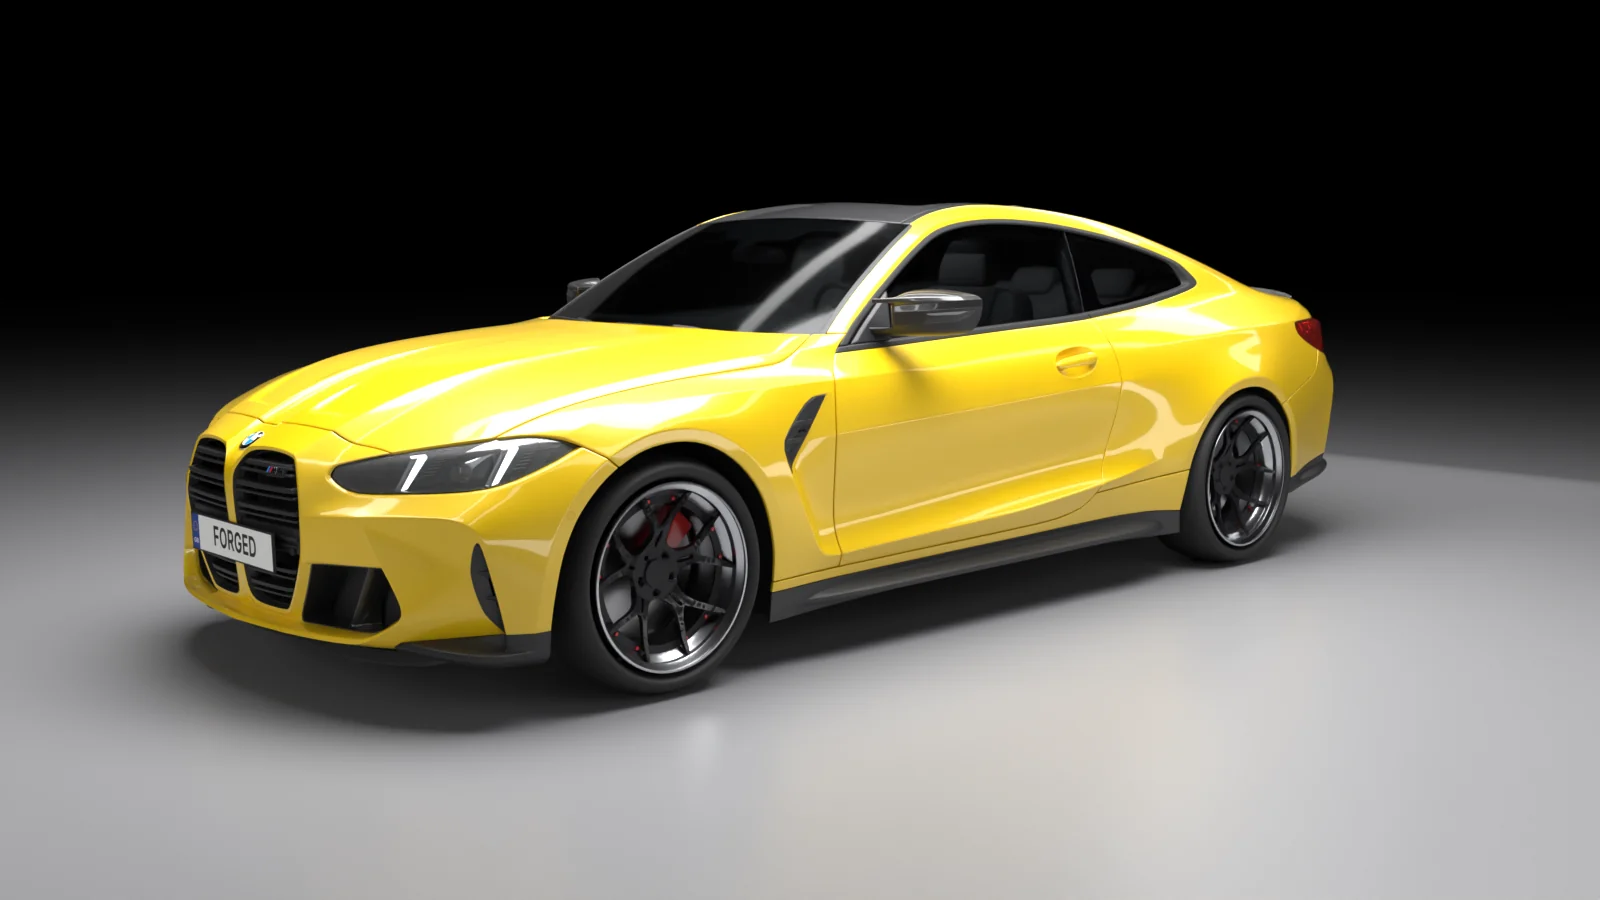
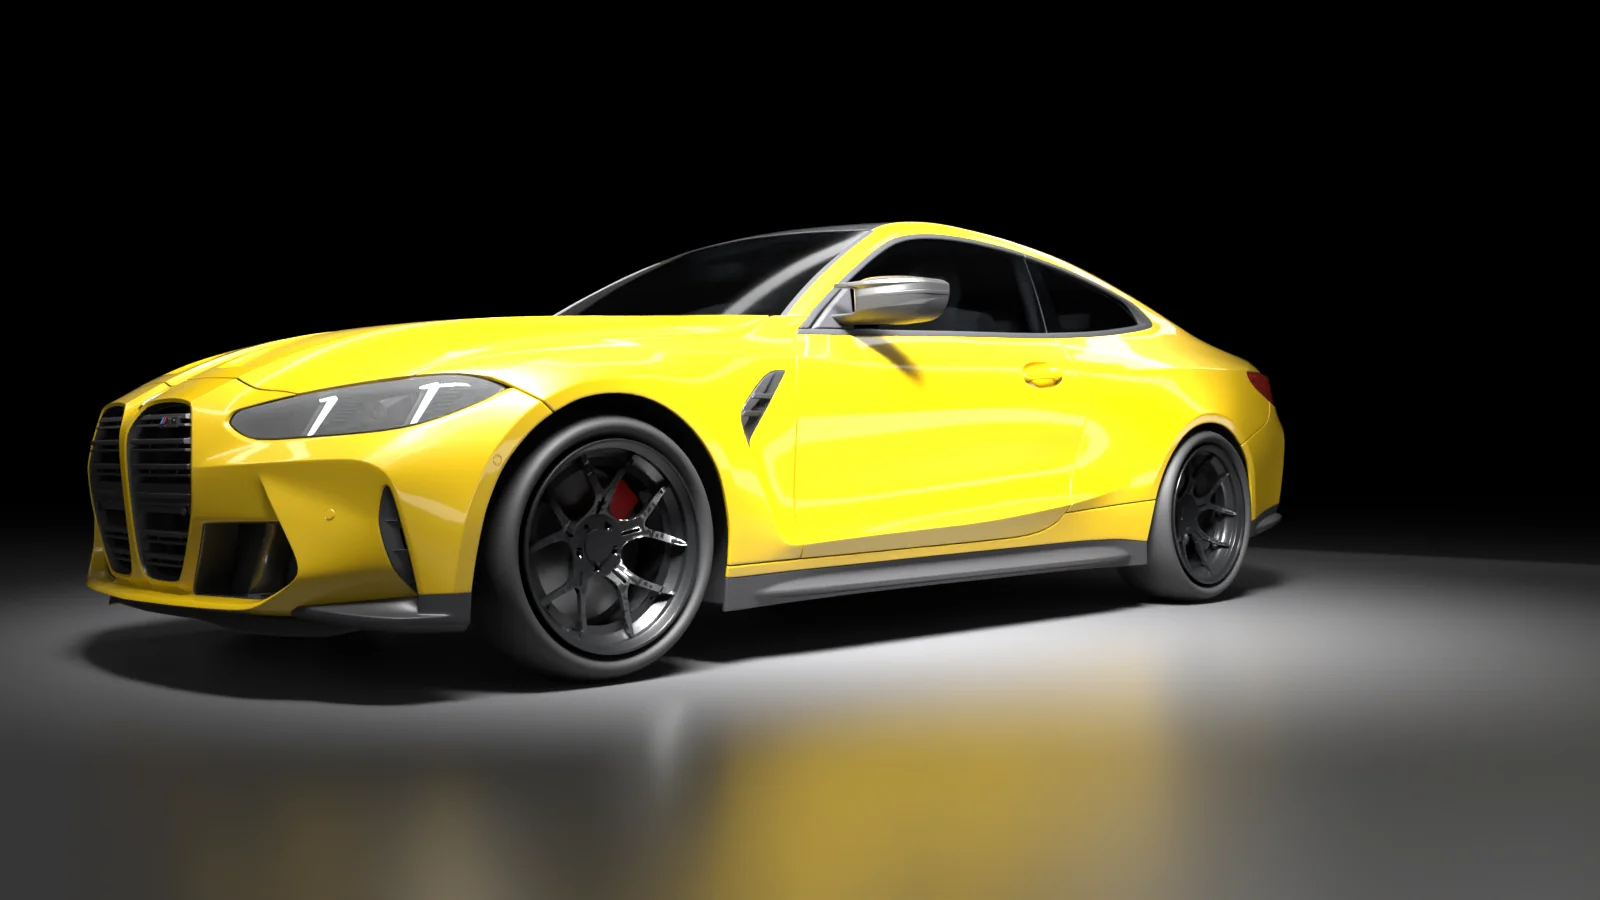
feat(hero): the welcome stills re-lit to the reference look for the other 15 cars
Why: the owner asked why every car cannot be as refined as the M5, M5
Touring and M2 CS. Those are the 11 Nov stills from the reference studio;
the other 15 were a flat, bright, far-camera first version of render_car.py
--hero. The reference studio scene is not in the repo, so --hero was tuned
against the 11 Nov M5 instead.

What:
- render_car.py --hero defaults: key 500 W, 0.55 x size, 55 degree spread,
  0.4 of the way to the camera, 1.8 m up; floor albedo 0.10; EV -0.5; a hero
  camera 1.1 car lengths out at 0.4 of the car's height, 32 mm; paint
  pigment x0.55; one deep satin black finish on the rims; the app's
  placeholder plates left out. Every value has a HERO_* override.
- pack-heroes.py packs the renders; HERO_VERSION bumped to 20261123c.
- 15 stills replaced (iX3, M3, M3 Touring, X1, X3, M3 CS, M3 CS Touring, M4,
  M4 CSL, M4 Convertible, X3 30e, X5, X5 M, M240i, M340i Touring), FSA001
  on every one. The four 11 Nov originals stay: side by side they are still
  more dramatic than the tuned render, so they keep their own wheels.

Checked: the recipe on the M5, X5 M and M3 Touring, then all 19 in a
contact sheet; original vs new side by side for the four; paint matched on
the M2 (gain 0.55 against 0.35 and 1.0). lint passes.

Claude-Session: https://claude.ai/code/session_015obiwYr2JT9ZertwAVjNpN

diff --git a/components/journey/HeroStage.tsx b/components/journey/HeroStage.tsx
@@ -11,7 +11,7 @@ import { cx } from './ui';
  * Stamp on every hero image URL. The stills keep their names when re-rendered and /hero/ is cached for a day plus a week of
  * stale-while-revalidate, so bump this whenever public/hero/* changes (phones kept showing the old M3 Touring still).
  */
-export const HERO_VERSION = '20261123b';
+export const HERO_VERSION = '20261123c';
 export const heroUrl = (carId: string, width: 960 | 1600) => `/hero/${carId}-${width}.webp?v=${HERO_VERSION}`;
 
 /** One car on the welcome stage: a Cycles still rendered in the reference studio (public/hero/<carId>-<w>.webp). */

diff --git a/scripts/prerender/render_car.py b/scripts/prerender/render_car.py
@@ -601,6 +601,12 @@ if fix.get('glass_unlink') and a.studio == 'dark':
         if o.type == 'LIGHT' and re.match(gl, o.name): o.light_linking.receiver_collection = rc
 
 
+def srgb_lin(hx, what):
+    hx = hx.strip().lstrip('#')
+    if not re.fullmatch(r'[0-9a-fA-F]{6}', hx): sys.exit(f'{what}: {hx!r} is not a #rrggbb colour')
+    return [c / 12.92 if c <= 0.04045 else ((c + 0.055) / 1.055) ** 2.4 for c in (int(hx[i:i + 2], 16) / 255 for i in (0, 2, 4))]
+
+
 if a.plate:
     # Studio plate: the welcome stills' floor, light pool and black void, without the car (its frames bring the body and
     # its shadow). The key light sits where the hero still's does: placed from the front three-quarter camera, so the
@@ -614,7 +620,7 @@ if a.plate:
     ck = cams.get('frontThreeQuarter') or next(iter(cams.values()))
     cpos = ck.matrix_world.translation; tgt = mathutils.Vector((cx, cy, 0))
     kpos = tgt + (cpos - tgt) * 0.12 + mathutils.Vector((0, 0, H + 2.2))
-    key = softbox('hero_key', kpos, (0, 0, 0), L * 0.9, L * 0.6, float(os.environ.get('HERO_KEY', '450')))
+    key = softbox('hero_key', kpos, (0, 0, 0), L * 0.9, L * 0.6, float(os.environ.get('HERO_KEY', '500')))
     key.rotation_euler = (tgt - kpos).to_track_quat('-Z', 'Y').to_euler()
 
 if a.hero:
@@ -630,6 +636,8 @@ if a.hero:
         b.inputs['Base Color'].default_value = (*col, 1); b.inputs['Metallic'].default_value = met
         b.inputs['Roughness'].default_value = rough; b.inputs['Coat Weight'].default_value = coat
         return m
+    for o in [o for o in sc.objects if o.type == 'MESH' and re.match(r'(?i)^plate', o.name)]:
+        bpy.data.objects.remove(o, do_unlink=True)   # the app's placeholder plates: the reference stills have none
     rubber = matp('hero_rubber', (0.022, 0.022, 0.023), 0.0, 0.62)
     disc_m = matp('hero_disc', (0.42, 0.42, 0.43), 1.0, 0.32)
     cal_m = matp('hero_caliper', (0.55, 0.02, 0.02), 0.0, 0.3, 1.0)
@@ -648,6 +656,13 @@ if a.hero:
         rad = max(max(abs(v.co.x), abs(v.co.z)) for v in rim.data.vertices)
         return rim, rad
     rims = [load_rim(f) for f in rim_files if f]
+    # the configurator's finish on every rim mesh (HERO_RIMFINISH "#hex,metalness,roughness,clearcoat"; default a deep satin black like the reference stills' wheels), not the
+    # file's own barrel/face materials (silver barrel, black face), which is not what a customer can order
+    _rf = os.environ.get('HERO_RIMFINISH', '#121315,0,0.38,0.6').split(',')
+    _rm = matp('hero_rim', srgb_lin(_rf[0], 'HERO_RIMFINISH'), float(_rf[1]), float(_rf[2]), float(_rf[3]))
+    for src, _ in rims:
+        if not src.data.materials: src.data.materials.append(_rm)
+        for sl in src.material_slots: sl.link = 'DATA'; sl.material = _rm
     for i, (x, y, z, r, wd) in enumerate(WHEELS):
         src, rad = rims[min(i // 2, len(rims) - 1)]   # wheels.json lists the front pair first
         sgn = 1 if x > 0 else -1
@@ -669,34 +684,52 @@ if a.hero:
     for o in (src for src, _ in rims): bpy.data.objects.remove(o, do_unlink=True)
     floor.is_shadow_catcher = False   # a real floor: the light pool and the car's reflection are in the picture
     fb = floor.data.materials[0].node_tree.nodes['Principled BSDF']
-    fb.inputs['Base Color'].default_value = (0.26, 0.26, 0.27, 1); fb.inputs['Roughness'].default_value = 0.3
+    _fl = float(os.environ.get('HERO_FLOOR', '0.10'))
+    fb.inputs['Base Color'].default_value = (_fl, _fl, _fl * 1.03, 1); fb.inputs['Roughness'].default_value = float(os.environ.get('HERO_FLOOR_ROUGH', '0.3'))
     sc.world.node_tree.nodes['Background'].inputs['Strength'].default_value = 0.0   # a black void, as the reference stills
-    HERO_KEY = float(os.environ.get('HERO_KEY', '450'))   # the key light's watts: it throws the pool on the floor
+    HERO_KEY = float(os.environ.get('HERO_KEY', '500'))   # the key light's watts: it throws the pool on the floor
     cam0 = cams.get((a.views or 'frontThreeQuarter').split(',')[0])
     if cam0:
         cpos = cam0.matrix_world.translation; tgt = mathutils.Vector((cx, cy, 0))
-        kpos = tgt + (cpos - tgt) * 0.12 + mathutils.Vector((0, 0, H + 2.2))   # over the car: the pool falls off towards the camera
-        key = softbox('hero_key', kpos, (0, 0, 0), L * 0.9, L * 0.6, HERO_KEY)
+        kshift = float(os.environ.get('HERO_KEYSHIFT', '0.4')); kh = float(os.environ.get('HERO_KEYH', '1.8')); ks = float(os.environ.get('HERO_KEYSIZE', '0.55'))
+        kpos = tgt + (cpos - tgt) * kshift + mathutils.Vector((0, 0, H + kh))   # over the car: the pool falls off towards the camera
+        key = softbox('hero_key', kpos, (0, 0, 0), L * 0.9 * ks, L * 0.6 * ks, HERO_KEY)
         key.rotation_euler = (tgt - kpos).to_track_quat('-Z', 'Y').to_euler()
-        cam0.data.lens *= float(os.environ.get('HERO_ZOOM', '1.3'))
+        # (The defaults below are the reference stills' look, tuned against the 11 Nov M5 still: HERO_CAMDIST=0 keeps the stage camera.)
+        # Optional hard strips for the edge lights of the reference stills: HERO_STRIPS="<watts>" puts one tall strip each side of the
+        # car (reflected along the shoulder line and bonnet edge) and a low one on the far side that lights the floor under the car.
+        sw = float(os.environ.get('HERO_STRIPS', '0'))
+        if sw > 0:
+            fwd = mathutils.Vector((cpos.x - tgt.x, cpos.y - tgt.y, 0)).normalized(); side = mathutils.Vector((-fwd.y, fwd.x, 0))
+            for nm, off, hh, wgt in (('hero_strip_a', side * (L * 0.75), H * 0.75, sw), ('hero_strip_b', -side * (L * 0.75), H * 0.75, sw), ('hero_floor_strip', -side * (L * 0.6) - fwd * (L * 0.2), 0.25, sw * 1.6)):
+                sp = tgt + off + mathutils.Vector((0, 0, hh)); st = softbox(nm, sp, (0, 0, 0), L * 0.8, 0.5 if hh > 0.5 else 0.35, wgt)
+                st.rotation_euler = (tgt + mathutils.Vector((0, 0, H * 0.3)) - sp).to_track_quat('-Z', 'Y').to_euler()
+        key.data.spread = math.radians(float(os.environ.get('HERO_SPREAD', '55')))   # narrower = a pool with falloff, not an even wash
+        if os.environ.get('HERO_CAMDIST', '1.1') != '0':
+            # The reference stills' camera: close, low and wide, from the stage camera's side. HERO_CAMDIST (x car length), HERO_CAMH (m),
+            # HERO_LENS (mm), HERO_SHIFT (frame fraction, + moves the car left); HERO_CAMHF sets the height as a fraction of the car's height.
+            hc = bpy.data.cameras.new('hero_cam'); hc.lens = float(os.environ.get('HERO_LENS', '32')); hc.sensor_width = cam0.data.sensor_width
+            hc.shift_x = float(os.environ.get('HERO_SHIFT', '0')); ho = bpy.data.objects.new('hero_cam', hc); sc.collection.objects.link(ho)
+            fl = mathutils.Vector((cpos.x - tgt.x, cpos.y - tgt.y, 0)).normalized()
+            ho.location = tgt + fl * (L * float(os.environ.get('HERO_CAMDIST', '1.1'))) + mathutils.Vector((0, 0, H * float(os.environ.get('HERO_CAMHF', '0.4')) if not os.environ.get('HERO_CAMH') else float(os.environ['HERO_CAMH'])))
+            ho.rotation_euler = (tgt + mathutils.Vector((0, 0, H * 0.42)) - ho.location).to_track_quat('-Z', 'Y').to_euler()
+            cams[(a.views or 'frontThreeQuarter').split(',')[0]] = ho
+        else:
+            cam0.data.lens *= float(os.environ.get('HERO_ZOOM', '1.3'))
     hx, kind = (a.hero.split(',') + ['Metallic'])[:2]
     hx = hx.strip().lstrip('#')
     if not re.fullmatch(r'[0-9a-fA-F]{6}', hx): sys.exit(f"--hero {a.hero!r}: expected '<#rrggbb>,<Metallic|Solid|Frozen>'")
     srgb = [int(hx[i:i + 2], 16) / 255 for i in (0, 2, 4)]
     lin = [c / 12.92 if c <= 0.04045 else ((c + 0.055) / 1.055) ** 2.4 for c in srgb]
-    pb.inputs['Base Color'].default_value = (*lin, 1)
-    met, rough, coat = {'Solid': (0.0, 0.35, 1.0), 'Frozen': (0.5, 0.55, 0.0)}.get(kind.strip(), (0.75, 0.38, 1.0))
+    pg = float(os.environ.get('HERO_PAINTGAIN', '0.55'))   # the reference stills' paint is deeper than the pigment hex lit by this key
+    pb.inputs['Base Color'].default_value = (*(c * pg for c in lin), 1)
+    met, rough, coat = {'Solid': (0.0, 0.35, 1.0), 'Frozen': (0.5, 0.55, 0.0)}.get(kind.strip(), (float(os.environ.get('HERO_METALLIC', '0.75')), float(os.environ.get('HERO_PAINTROUGH', '0.38')), 1.0))
     pb.inputs['Metallic'].default_value = met; pb.inputs['Roughness'].default_value = rough; pb.inputs['Coat Weight'].default_value = coat
 
 def ensure_dir(path):
     """Creates an output folder, or stops naming it (a full disk or a read-only mount is not a traceback)."""
     try: os.makedirs(path, exist_ok=True)
     except OSError as e: sys.exit(f'cannot create the output folder {path}: {e}')
-
-def srgb_lin(hx, what):
-    hx = hx.strip().lstrip('#')
-    if not re.fullmatch(r'[0-9a-fA-F]{6}', hx): sys.exit(f'{what}: {hx!r} is not a #rrggbb colour')
-    return [c / 12.92 if c <= 0.04045 else ((c + 0.055) / 1.055) ** 2.4 for c in (int(hx[i:i + 2], 16) / 255 for i in (0, 2, 4))]
 
 if a.wheel_layer:
     # Path-traced wheels for the configurator: what the live WebGL wheels draw, rendered in the frames' own studio so
@@ -980,7 +1013,7 @@ if a.hero:
     v = views[0] if a.views else 'frontThreeQuarter'
     if v not in cams: sys.exit(f'--hero: no camera CAM_{v} in {a.glb}')
     sc.camera = cams[v]; sc.render.film_transparent = False
-    sc.view_settings.exposure += float(os.environ.get('HERO_EV', '0.0'))
+    sc.view_settings.exposure += float(os.environ.get('HERO_EV', '-0.5'))
     sc.render.resolution_x = a.width; sc.render.resolution_y = round(a.width * 9 / 16)
     sc.render.image_settings.color_mode = 'RGB'
     ensure_dir(a.out); sc.render.filepath = os.path.join(a.out, 'hero.png')

diff --git a/scripts/prerender/pack-heroes.py b/scripts/prerender/pack-heroes.py
@@ -1,0 +1,32 @@
+#!/usr/bin/env python3
+"""Packs the --hero renders (<dir>/<car>/hero.png) into public/hero/<car>-1600.webp and -960.webp.
+
+    python3 scripts/prerender/pack-heroes.py <heroes dir> [car ...]     # no cars: every car found in the folder
+
+Bump HERO_VERSION in components/journey/HeroStage.tsx afterwards (the files keep their names and /hero/ is cached for days).
+"""
+import os, sys
+from PIL import Image
+
+if len(sys.argv) < 2:
+    sys.exit(__doc__)
+src, only = sys.argv[1], sys.argv[2:]
+out = os.path.join(os.path.dirname(os.path.dirname(os.path.dirname(os.path.abspath(__file__)))), 'public', 'hero')
+try:
+    cars = sorted(d for d in os.listdir(src) if os.path.exists(os.path.join(src, d, 'hero.png')))
+except OSError as e:
+    sys.exit(f'{src}: {e}')
+for car in (only or cars):
+    path = os.path.join(src, car, 'hero.png')
+    try:
+        with Image.open(path) as im:
+            still = im.convert('RGB')
+    except OSError as e:
+        sys.exit(f'{path}: {e}')
+    for w in (1600, 960):
+        dst = os.path.join(out, f'{car}-{w}.webp')
+        try:
+            still.resize((w, round(w * 9 / 16)), Image.LANCZOS).save(dst, 'WEBP', quality=86, method=6)
+        except OSError as e:
+            sys.exit(f'{dst}: {e}')
+    print(car, 'packed')

diff --git a/docs/ADD_PREPARED_CAR.md b/docs/ADD_PREPARED_CAR.md
@@ -211,6 +211,25 @@ check in the browser's network tab that no `.glb` is requested for it on the wel
   that sorts before the car's (Donington Grey for the X5 M, Melbourne Red for the M240i).
 - The whole process, the review loop and a table of defects and fixes: the `forgedsa-frames-only-car` skill.
 
+## Welcome stills (public/hero)
+
+The first four stills (M2 CS, M4 CS, M5, M5 Touring) were made on 11 Nov from the owner's reference studio scene
+(`scripts/cycles/batch_stills.py` opens `/home/claude/m2/out/BMW_M2_CS_G87_clean_studio.blend`, which is not in the repo) and are the
+quality bar: a near-black void, deep saturated paint, a hard overhead key with falloff, a dark floor with a bright pool under the car's
+far side, and a close, low, wide-angle camera. On 23 Nov they were overwritten by a flatter first version of `render_car.py --hero`
+(a big even softbox over a bright grey floor, a far camera): phones then showed the originals from cache and the M3 Touring's old
+pre-Cycles still, which is how the gap was noticed.
+
+`render_car.py --hero` now defaults to a recipe tuned against the 11 Nov M5 (M5, X5 M and M3 Touring checked): key 500 W, 0.55 x size,
+55 degree spread, 0.4 of the way to the camera, 1.8 m up; floor albedo 0.10; EV -0.5; a hero camera 1.1 car lengths out, at 0.4 of the
+car's height, 32 mm. Every value has a `HERO_*` environment override (`HERO_CAMDIST=0` keeps the stage camera). `scripts/prerender/pack-heroes.py` packs the renders. The rims take one deep satin black finish (`HERO_RIMFINISH`), the paint pigment is
+scaled by `HERO_PAINTGAIN` 0.55, and the app's placeholder plates are left out. Before replacing a still, put the old and new side by side
+(`git show 588c06b:public/hero/<car>-1600.webp`) and keep the better one: on 23 Nov the four originals were still more dramatic than the
+tuned render (lower, closer camera, harder contrast), so they stay, with their own wheels (not FSA001); the other 15 cars use the render.
+
+`/hero/` is cached for a day plus a week and the stills keep their names, so `HERO_VERSION` in `components/journey/HeroStage.tsx`
+is part of every still's URL: bump it whenever a still changes.
+
 ## Path-traced wheel layers (2026-11-23)
 
 On a rendered view the wheels are Cycles images too, not the live WebGL wheels: each stock wheel in each finish and

diff --git a/CLAUDE.md b/CLAUDE.md
@@ -21,6 +21,7 @@
 - Frames-only cars (licence forbids serving the GLB, e.g. Blendkit Royalty Free; first: ix3_m60): no modelUrl, body = Cycles frames + per-view depth.png, wheel layout in public/renders/manifest.json (framesOnly); build with prepare_blend.py -> export-scene.cjs (CAR_QUERY) -> render_depth.py + render_car.py -> frames-only.sh; check with scripts/render/frames-car.cjs (fails on any .glb request for the car); licensed files only in /opt and .scratch/private (docs/ADD_PREPARED_CAR.md)
 - A frames-only car ships only after three independent reviews (fit, materials, accuracy; brief .scratch/briefs/REVIEW.md) and a review of the fixes; a view rendered with render_car.py --hide needs render_depth.py --hide too; paint proofs come from shoot.cjs with an eval of services/renderedBody.ts renderedStills; a missing real launch colour or a paint BMW never offered on that car is a blocker
 - Rendered views draw path-traced wheel layers (render_car.py --wheel-layer, body and floor as holdouts; scripts/prerender/wheel-layers.sh then publish_wheel_layers.py -> public/renders/<car>/<view>/wheels/*.webp + wheels.json); live WebGL wheels only where a layer is missing; re-render a car's layers when its frames change, and a finish's layers when /admin changes its values
+- Welcome stills (public/hero/*): the 11 Nov M2/M4 CS/M5/M5 Touring stills came from the owner's reference studio .blend (not in the repo, /home/claude/m2/out; scripts/cycles/batch_stills.py) and are the quality bar; render_car.py --hero is tuned to match them (low-key: black void, narrow key with falloff, close low 32 mm camera, EV -0.5; knobs HERO_*); compare any new still side by side with the originals (git show 588c06b:public/hero/<car>-1600.webp) before replacing one, and bump HERO_VERSION in HeroStage.tsx (the files keep their names and /hero/ is cached for days)
 - The M340i saloon could not be built from the Blendkit 3 Series models (three judged attempts failed), so the M340i ships as the Touring (m340i_touring_g21) with European figures; BMW SA sells the M340i only as a saloon (owner to confirm the Touring is wanted)
 
 ### Key Decisions
